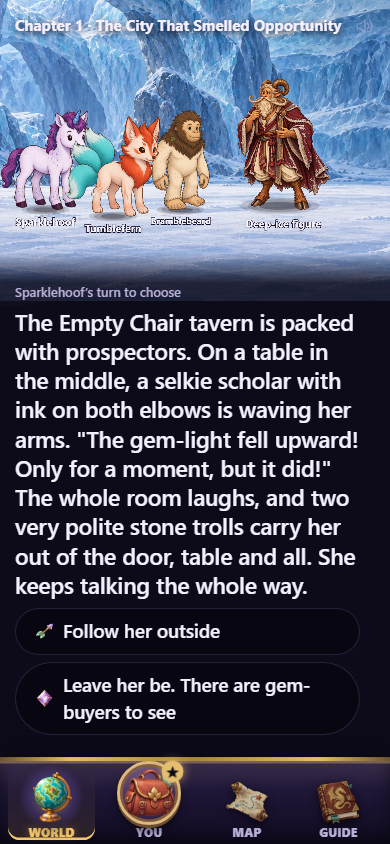
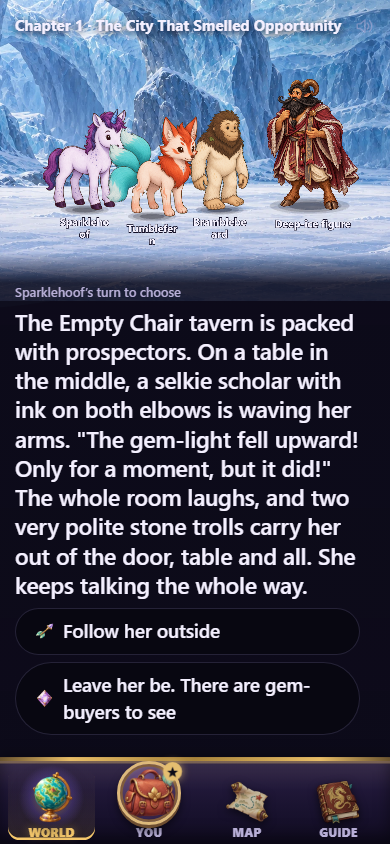
Refresh finale previews and verify the combined review fixes

Changed region(s): [[0.0, 0.0924, 0.9231, 0.3081], [0.4, 0.8934, 0.4923, 0.9242]]

diff --git a/docs/campaigns/continental-rift/art-and-audio-log.md b/docs/campaigns/continental-rift/art-and-audio-log.md
@@ -271,3 +271,5 @@ The final stricter phone regression passed (49.4 seconds), including all three g
 Part C preview refresh after the second layout review: regenerated all six location compositions on the current upstream guest-paging layout. Each scene includes TV, host phone, and all three watcher-phone guest pages, so the figures and nameplates now match the implementation reviewers will merge. The original painting sources, manifest ids, packaging and background-only contact sheet are unchanged. The refreshed northern/southern capture logs record the runs.
 
 Part D preview refresh: all four music-assigned scenes were recaptured on TV, watcher phone and host phone after inheriting the readable narrow-stage layout. The four-scene capture run passed (2.0 minutes). Scores, mappings and production audio files are unchanged by this review follow-up.
+
+Final combined-stack review: refreshed the black-haired finale on TV, watcher phone and host phone; the capture passed (1.0 minute) and the large figure's visible silhouette stays inside the phone. Combined targeted checks passed 62/62, repository typecheck and 55 content checks pass. The committed audio declaration remains UTF-8/LF and its incremental diff remains one added line. This review also retains the corrected production-prefetch cache test.
